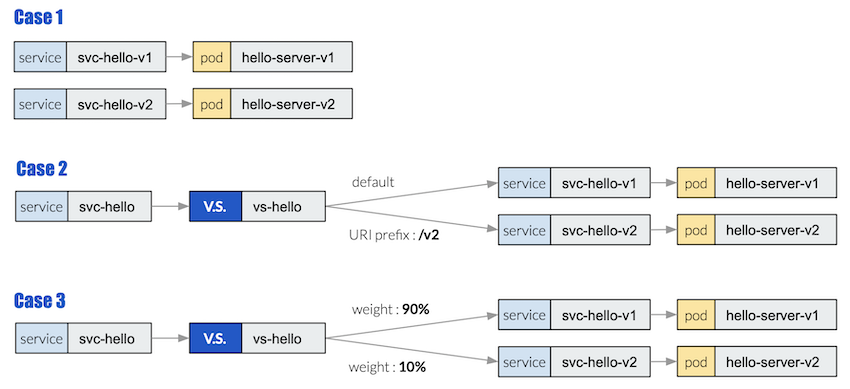
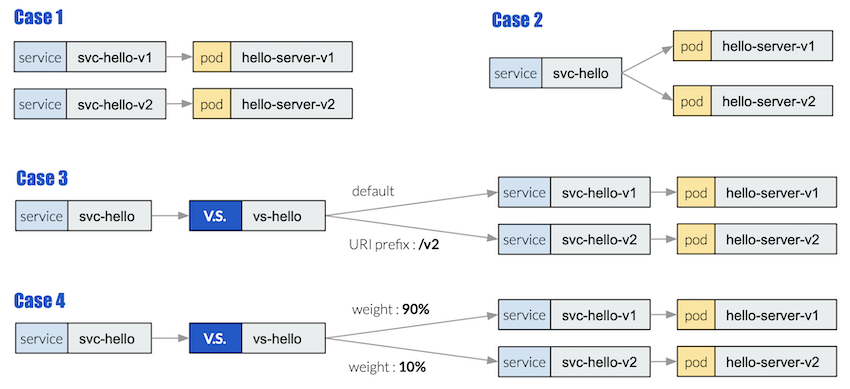
modified - rollback

diff --git a/_posts/2019-07-24-virtualservice basic on istio.md b/_posts/2019-07-24-virtualservice basic on istio.md
@@ -78,7 +78,8 @@ pod/hello-server-v2   2/2     Running   0          20m
 
 ### Cases
 
-1. Kuberntes 2개 서비스 구성 예
+1. Kuberntes 서비스 구성
+1. Kuberntes single _service_ & multi _pod_ & 구성
 1. Istio VirtualService 라우팅 URI Prefix  룰셋 예
 1. Istio VirtualService 라우팅 Weight 룰셋 예
 
@@ -156,7 +157,59 @@ Hello server - v2 (requestUri=/)
 Hello server - v2 (requestUri=/)
 ~~~
 
-### Case 2
+###  Case 2
+> 2개의 샘플 _pod_ - `hello-server-v1`, `hello-server-v2` - 가 서로 같은 App. 이라 정의하고 (실제로는 다르지만) 
+> `svc-hello` 로 Traffic 발생시키면 해당 Traffic은 endpoints 로 round robin 되는것을 확인한다.
+
+* `svc-hello` service 생성
+
+~~~
+$ kubectl apply -f - <<EOF
+apiVersion: v1
+kind: Service
+metadata:
+  name: svc-hello
+  labels:
+    app: hello
+spec:
+  selector:
+    app: hello
+  ports:
+  - name: http
+    protocol: TCP
+    port: 8080
+EOF
+~~~
+
+
+* endpoint 확인
+  * `svc-hello` 추가 생성
+
+~~~
+$ kubectl get endpoints -l app=hello
+
+NAME           ENDPOINTS                         AGE
+svc-hello      172.17.0.5:8080,172.17.0.6:8080   92m
+svc-hello-v1   172.17.0.5:8080                   2m6s
+svc-hello-v2   172.17.0.6:8080                   14s
+~~~
+
+* `svc-hello` 에 Traffic 전달하여 결과 확인해 보기
+  * `hello-server-v1` , `hello-server-v2` 각각으로 Round Robin
+
+~~~
+$ kubectl exec -it curl bash
+
+# for i in {1..5}; do curl http://svc-hello.default.svc.cluster.local:8080; sleep 0.5; done
+
+Hello server - v2 (requestUri=/)
+Hello server - v1 (requestUri=/)
+Hello server - v2 (requestUri=/)
+Hello server - v1 (requestUri=/)
+Hello server - v1 (requestUri=/)
+~~~
+
+### Case 3
 > 이전 round robin 되엇던 `svc-hello` _service_ 에 **VirtualService** CRDs 를 사용하여 라우트 룰셋을 정의하여 준다.
 > 룰셋은 기본적으로 `svc-hello-v1` 로 라우트 되지만 URI prefix가 `\v2` 이면 `svc-hello-v2`로 라우트 되도록한다.
 
@@ -196,6 +249,7 @@ EOF
 $ kubectl get endpoints -l app=hello
 
 NAME           ENDPOINTS                         AGE
+svc-hello      172.17.0.5:8080,172.17.0.6:8080   101m
 svc-hello-v1   172.17.0.5:8080                   11m
 svc-hello-v2   172.17.0.6:8080                   9m13s
 ~~~
@@ -226,7 +280,7 @@ Hello server - v2 (requestUri=/v2)
 Hello server - v2 (requestUri=/v2)
 ~~~
 
-### Case 3
+### Case 4
 > **VirtualService** 는 Destination weight 스펙을 통해 라우트되는 비율을 정의할 수 있다.
 
 * VirtualService 를 수정 적용
@@ -270,7 +324,7 @@ Hello server - v1 (requestUri=/)
 ### Clean-up
 
 ~~~
-$ kubectl delete pod/curl pod/hello-server-v1 pod/hello-server-v2 service/svc-hello-v1 service/svc-hello-v2 vs/vs-hello
+$ kubectl delete pod/curl pod/hello-server-v1 pod/hello-server-v2 service/svc-hello service/svc-hello-v1 service/svc-hello-v2 vs/vs-hello
 ~~~
 
 ## VirtualService
